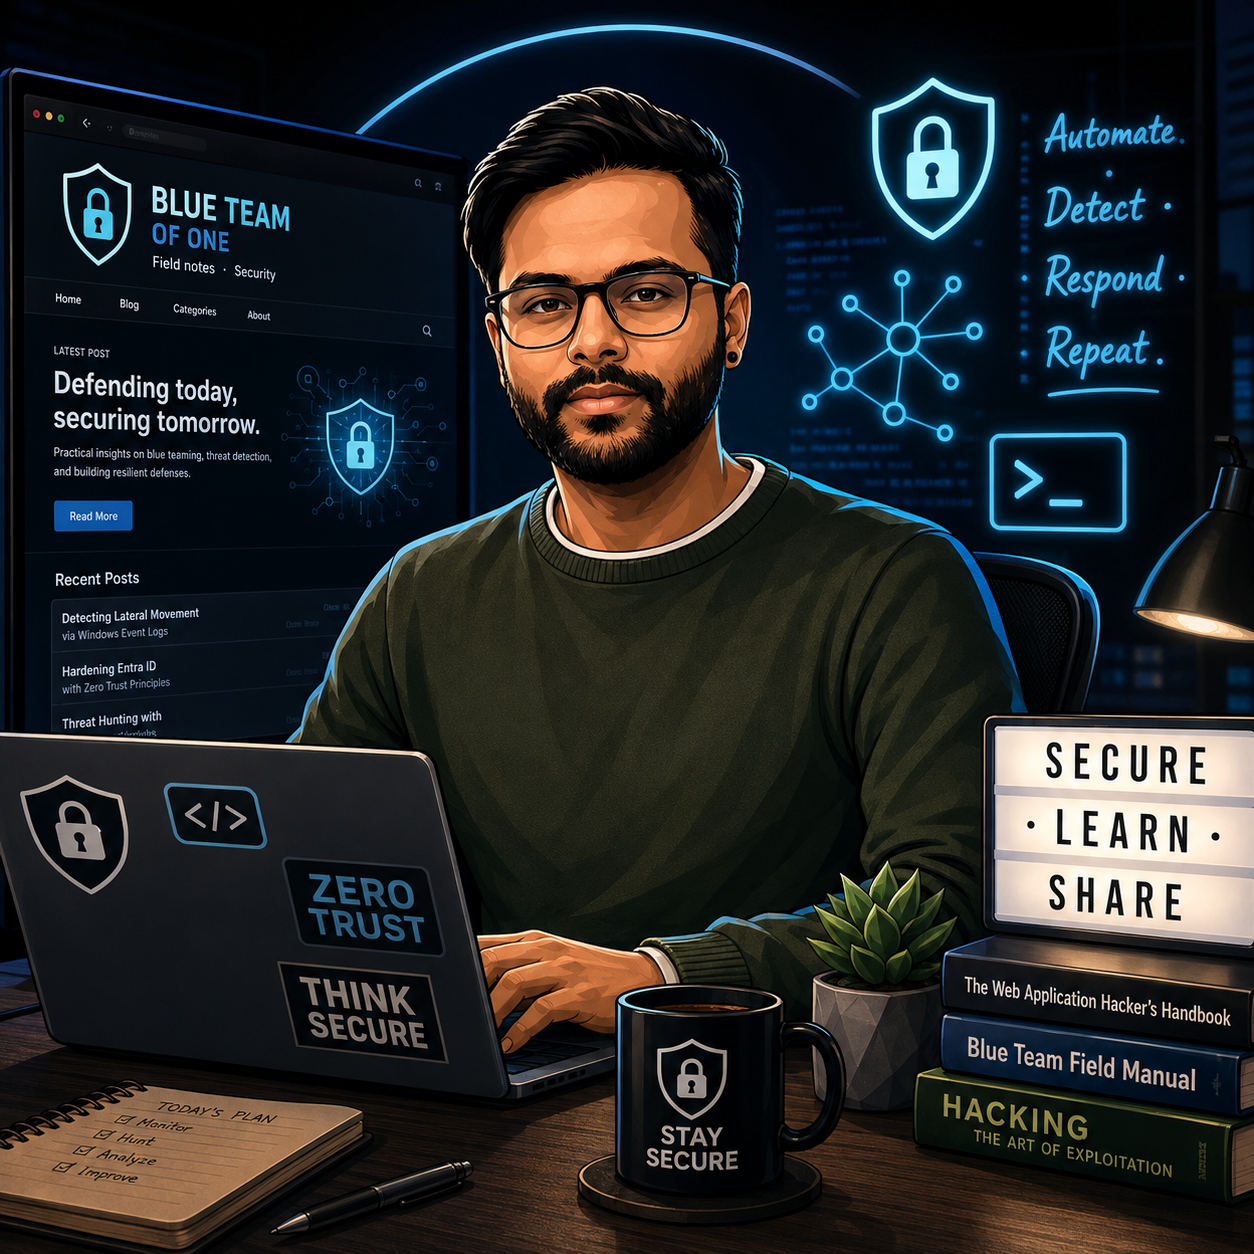
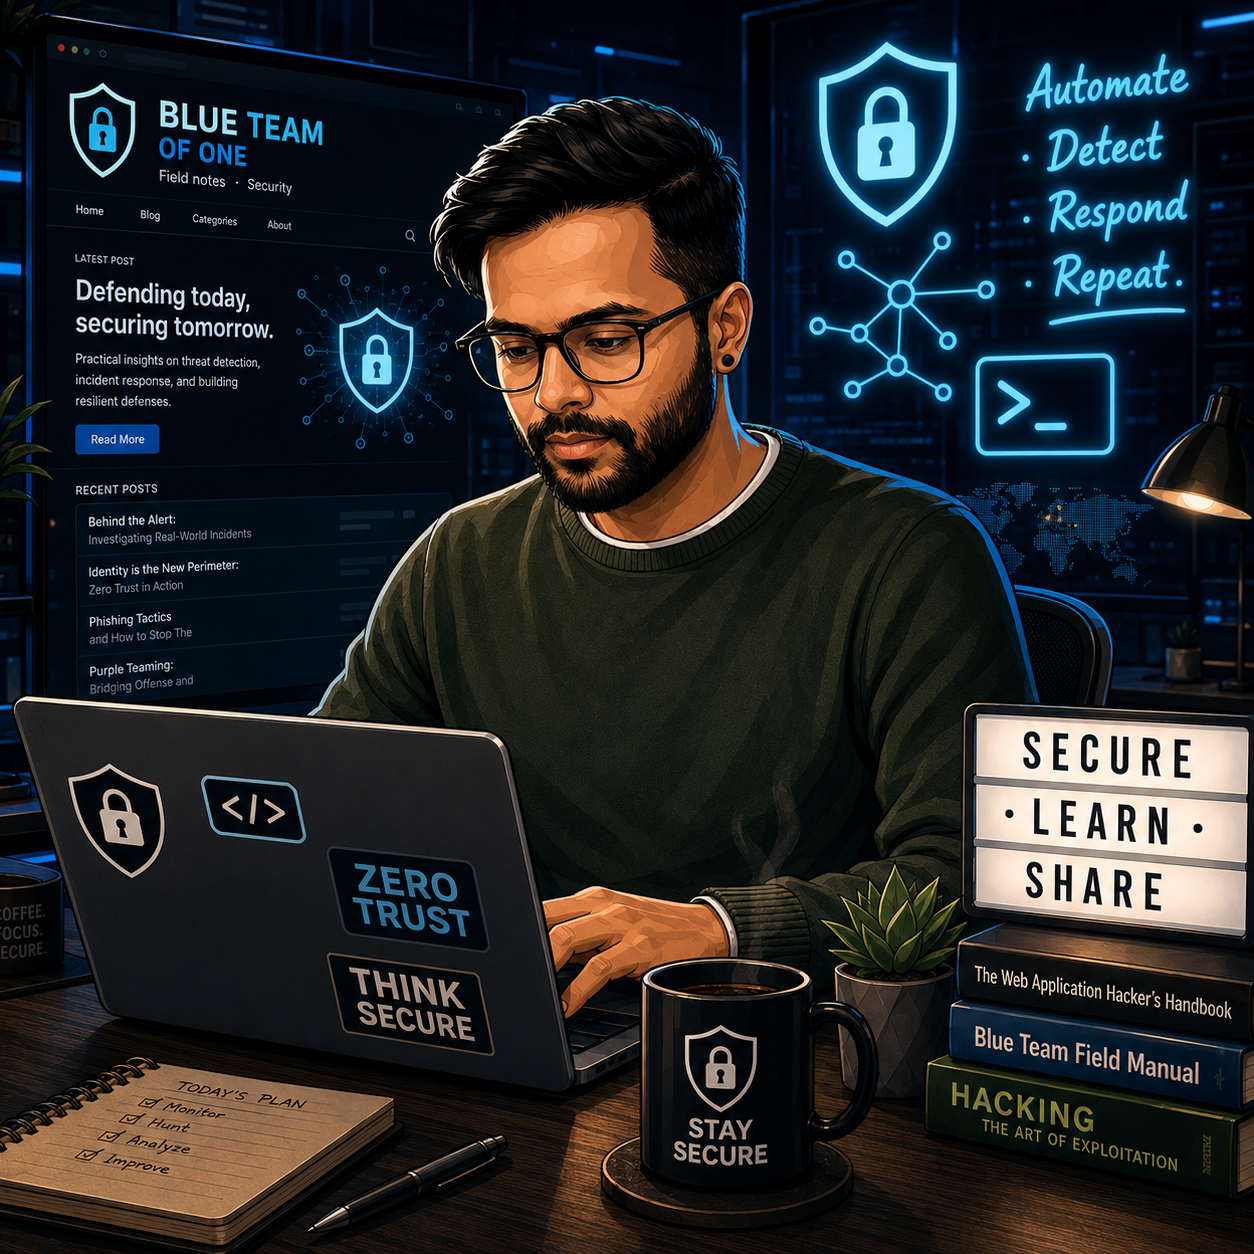
V1

diff --git a/assets/style.css b/assets/style.css
@@ -246,20 +246,31 @@ noscript .sw-panel{display:block; border-bottom:1px solid var(--line); padding-b
 }
 
 
-/* ---- Homepage hero band (v13 — properly sized) ---- */
-.home-hero{display:grid; grid-template-columns:1.05fr .95fr; gap:40px; align-items:center; margin:6px 0 10px}
-.home-hero .phead{margin:0; text-align:left}
-.home-hero-art{width:100%; max-width:360px; justify-self:end; border-radius:20px; overflow:hidden; box-shadow:0 14px 40px rgba(16,21,33,.18); border:1px solid var(--line); aspect-ratio:1/1; background:var(--card)}
-.home-hero-art img{width:100%; height:100%; object-fit:cover; display:block}
 @media (max-width:860px){
-  .home-hero{grid-template-columns:1fr; gap:22px; justify-items:center; text-align:center}
-  .home-hero .phead{text-align:center}
-  .home-hero-art{max-width:300px; order:-1; justify-self:center}
 }
 @media (max-width:480px){
-  .home-hero-art{max-width:240px}
 }
 
-/* WebP picture fills the hero frame */
+
+
+/* ---- Homepage hero (v16 — text-forward, smaller art) ---- */
+.home-hero{display:grid; grid-template-columns:1.35fr 1fr; gap:52px; align-items:center; margin:10px 0 6px}
+.home-hero .phead{margin:0; text-align:left}
+.home-hero h1{margin:6px 0 0}
+.home-hero .accent-rule{width:44px; height:3px; border-radius:2px; background:var(--teal); margin:0 0 16px}
+.home-hero .tagline{max-width:34ch}
+.hero-chips{display:flex; flex-wrap:wrap; gap:8px; margin-top:22px}
+.hero-chip{font-family:"IBM Plex Mono",monospace; font-size:11.5px; letter-spacing:.02em; color:var(--ink-2); background:var(--card); border:1px solid var(--line); border-radius:20px; padding:6px 12px}
+.hero-chip b{color:var(--ink); font-weight:600}
+.home-hero-art{width:100%; max-width:300px; justify-self:end; border-radius:20px; overflow:hidden; box-shadow:0 14px 40px rgba(16,21,33,.16); border:1px solid var(--line); aspect-ratio:1/1; background:var(--card)}
 .home-hero-art picture{display:block; width:100%; height:100%}
-.home-hero-art picture img{width:100%; height:100%; object-fit:cover; display:block}
+.home-hero-art img{width:100%; height:100%; object-fit:cover; display:block}
+@media (max-width:860px){
+  .home-hero{grid-template-columns:1fr; gap:24px; justify-items:center; text-align:center}
+  .home-hero .phead{text-align:center}
+  .home-hero .accent-rule{margin-left:auto; margin-right:auto}
+  .home-hero .tagline{max-width:46ch}
+  .hero-chips{justify-content:center}
+  .home-hero-art{max-width:260px; order:-1}
+}
+@media (max-width:480px){ .home-hero-art{max-width:220px} }

diff --git a/index.html b/index.html
@@ -8,7 +8,7 @@
 <link rel="preconnect" href="https://fonts.googleapis.com">
 <link rel="preconnect" href="https://fonts.gstatic.com" crossorigin>
 <link href="https://fonts.googleapis.com/css2?family=Space+Grotesk:wght@400;500;600;700&family=IBM+Plex+Sans:wght@400;500;600&family=IBM+Plex+Mono:wght@400;500&display=swap" rel="stylesheet">
-<link rel="stylesheet" href="/assets/style.css?v=15">
+<link rel="stylesheet" href="/assets/style.css?v=16">
 </head>
 <body>
 <header class="site-head">
@@ -33,13 +33,20 @@
     <div class="home-hero">
       <div class="phead">
         <p class="kicker">Blue Team of One</p>
+        <div class="accent-rule"></div>
         <h1>Security field notes</h1>
         <p class="tagline">Deep teardowns and quick lessons from real defensive work by Ram Mudigina. Pick a vertical to dive in.</p>
+        <div class="hero-chips">
+          <span class="hero-chip"><b>7</b> field notes</span>
+          <span class="hero-chip">Identity &amp; access</span>
+          <span class="hero-chip">Detection &amp; IR</span>
+          <span class="hero-chip">eDiscovery &amp; holds</span>
+        </div>
       </div>
       <div class="home-hero-art">
         <picture>
-          <source srcset="/assets/img/hero.webp?v=2" type="image/webp">
-          <img src="/assets/img/hero.png?v=2" alt="Blue Team of One — security field notes" width="800" height="800" loading="eager">
+          <source srcset="/assets/img/hero.webp?v=3" type="image/webp">
+          <img src="/assets/img/hero.png?v=3" alt="Blue Team of One — security field notes" width="800" height="800" loading="eager">
         </picture>
       </div>
     </div>

diff --git a/cloud-ir/cloud-posture.html b/cloud-ir/cloud-posture.html
@@ -8,7 +8,7 @@
 <link rel="preconnect" href="https://fonts.googleapis.com">
 <link rel="preconnect" href="https://fonts.gstatic.com" crossorigin>
 <link href="https://fonts.googleapis.com/css2?family=Space+Grotesk:wght@400;500;600;700&family=IBM+Plex+Sans:wght@400;500;600&family=IBM+Plex+Mono:wght@400;500&display=swap" rel="stylesheet">
-<link rel="stylesheet" href="/assets/style.css?v=15">
+<link rel="stylesheet" href="/assets/style.css?v=16">
 </head>
 <body>
 <header class="site-head">

diff --git a/cloud-ir/endpoint.html b/cloud-ir/endpoint.html
@@ -8,7 +8,7 @@
 <link rel="preconnect" href="https://fonts.googleapis.com">
 <link rel="preconnect" href="https://fonts.gstatic.com" crossorigin>
 <link href="https://fonts.googleapis.com/css2?family=Space+Grotesk:wght@400;500;600;700&family=IBM+Plex+Sans:wght@400;500;600&family=IBM+Plex+Mono:wght@400;500&display=swap" rel="stylesheet">
-<link rel="stylesheet" href="/assets/style.css?v=15">
+<link rel="stylesheet" href="/assets/style.css?v=16">
 </head>
 <body>
 <header class="site-head">

diff --git a/cloud-ir/incident-response.html b/cloud-ir/incident-response.html
@@ -8,7 +8,7 @@
 <link rel="preconnect" href="https://fonts.googleapis.com">
 <link rel="preconnect" href="https://fonts.gstatic.com" crossorigin>
 <link href="https://fonts.googleapis.com/css2?family=Space+Grotesk:wght@400;500;600;700&family=IBM+Plex+Sans:wght@400;500;600&family=IBM+Plex+Mono:wght@400;500&display=swap" rel="stylesheet">
-<link rel="stylesheet" href="/assets/style.css?v=15">
+<link rel="stylesheet" href="/assets/style.css?v=16">
 </head>
 <body>
 <header class="site-head">

diff --git a/cloud-ir/index.html b/cloud-ir/index.html
@@ -8,7 +8,7 @@
 <link rel="preconnect" href="https://fonts.googleapis.com">
 <link rel="preconnect" href="https://fonts.gstatic.com" crossorigin>
 <link href="https://fonts.googleapis.com/css2?family=Space+Grotesk:wght@400;500;600;700&family=IBM+Plex+Sans:wght@400;500;600&family=IBM+Plex+Mono:wght@400;500&display=swap" rel="stylesheet">
-<link rel="stylesheet" href="/assets/style.css?v=15">
+<link rel="stylesheet" href="/assets/style.css?v=16">
 </head>
 <body>
 <header class="site-head">

diff --git a/detection/correlation.html b/detection/correlation.html
@@ -8,7 +8,7 @@
 <link rel="preconnect" href="https://fonts.googleapis.com">
 <link rel="preconnect" href="https://fonts.gstatic.com" crossorigin>
 <link href="https://fonts.googleapis.com/css2?family=Space+Grotesk:wght@400;500;600;700&family=IBM+Plex+Sans:wght@400;500;600&family=IBM+Plex+Mono:wght@400;500&display=swap" rel="stylesheet">
-<link rel="stylesheet" href="/assets/style.css?v=15">
+<link rel="stylesheet" href="/assets/style.css?v=16">
 </head>
 <body>
 <header class="site-head">

diff --git a/detection/index.html b/detection/index.html
@@ -8,7 +8,7 @@
 <link rel="preconnect" href="https://fonts.googleapis.com">
 <link rel="preconnect" href="https://fonts.gstatic.com" crossorigin>
 <link href="https://fonts.googleapis.com/css2?family=Space+Grotesk:wght@400;500;600;700&family=IBM+Plex+Sans:wght@400;500;600&family=IBM+Plex+Mono:wght@400;500&display=swap" rel="stylesheet">
-<link rel="stylesheet" href="/assets/style.css?v=15">
+<link rel="stylesheet" href="/assets/style.css?v=16">
 </head>
 <body>
 <header class="site-head">

diff --git a/detection/sentinel-rules.html b/detection/sentinel-rules.html
@@ -8,7 +8,7 @@
 <link rel="preconnect" href="https://fonts.googleapis.com">
 <link rel="preconnect" href="https://fonts.gstatic.com" crossorigin>
 <link href="https://fonts.googleapis.com/css2?family=Space+Grotesk:wght@400;500;600;700&family=IBM+Plex+Sans:wght@400;500;600&family=IBM+Plex+Mono:wght@400;500&display=swap" rel="stylesheet">
-<link rel="stylesheet" href="/assets/style.css?v=15">
+<link rel="stylesheet" href="/assets/style.css?v=16">
 </head>
 <body>
 <header class="site-head">

diff --git a/detection/tuning-noise.html b/detection/tuning-noise.html
@@ -8,7 +8,7 @@
 <link rel="preconnect" href="https://fonts.googleapis.com">
 <link rel="preconnect" href="https://fonts.gstatic.com" crossorigin>
 <link href="https://fonts.googleapis.com/css2?family=Space+Grotesk:wght@400;500;600;700&family=IBM+Plex+Sans:wght@400;500;600&family=IBM+Plex+Mono:wght@400;500&display=swap" rel="stylesheet">
-<link rel="stylesheet" href="/assets/style.css?v=15">
+<link rel="stylesheet" href="/assets/style.css?v=16">
 </head>
 <body>
 <header class="site-head">

diff --git a/email/delivery.html b/email/delivery.html
@@ -8,7 +8,7 @@
 <link rel="preconnect" href="https://fonts.googleapis.com">
 <link rel="preconnect" href="https://fonts.gstatic.com" crossorigin>
 <link href="https://fonts.googleapis.com/css2?family=Space+Grotesk:wght@400;500;600;700&family=IBM+Plex+Sans:wght@400;500;600&family=IBM+Plex+Mono:wght@400;500&display=swap" rel="stylesheet">
-<link rel="stylesheet" href="/assets/style.css?v=15">
+<link rel="stylesheet" href="/assets/style.css?v=16">
 </head>
 <body>
 <header class="site-head">

diff --git a/email/inbound.html b/email/inbound.html
@@ -8,7 +8,7 @@
 <link rel="preconnect" href="https://fonts.googleapis.com">
 <link rel="preconnect" href="https://fonts.gstatic.com" crossorigin>
 <link href="https://fonts.googleapis.com/css2?family=Space+Grotesk:wght@400;500;600;700&family=IBM+Plex+Sans:wght@400;500;600&family=IBM+Plex+Mono:wght@400;500&display=swap" rel="stylesheet">
-<link rel="stylesheet" href="/assets/style.css?v=15">
+<link rel="stylesheet" href="/assets/style.css?v=16">
 </head>
 <body>
 <header class="site-head">
